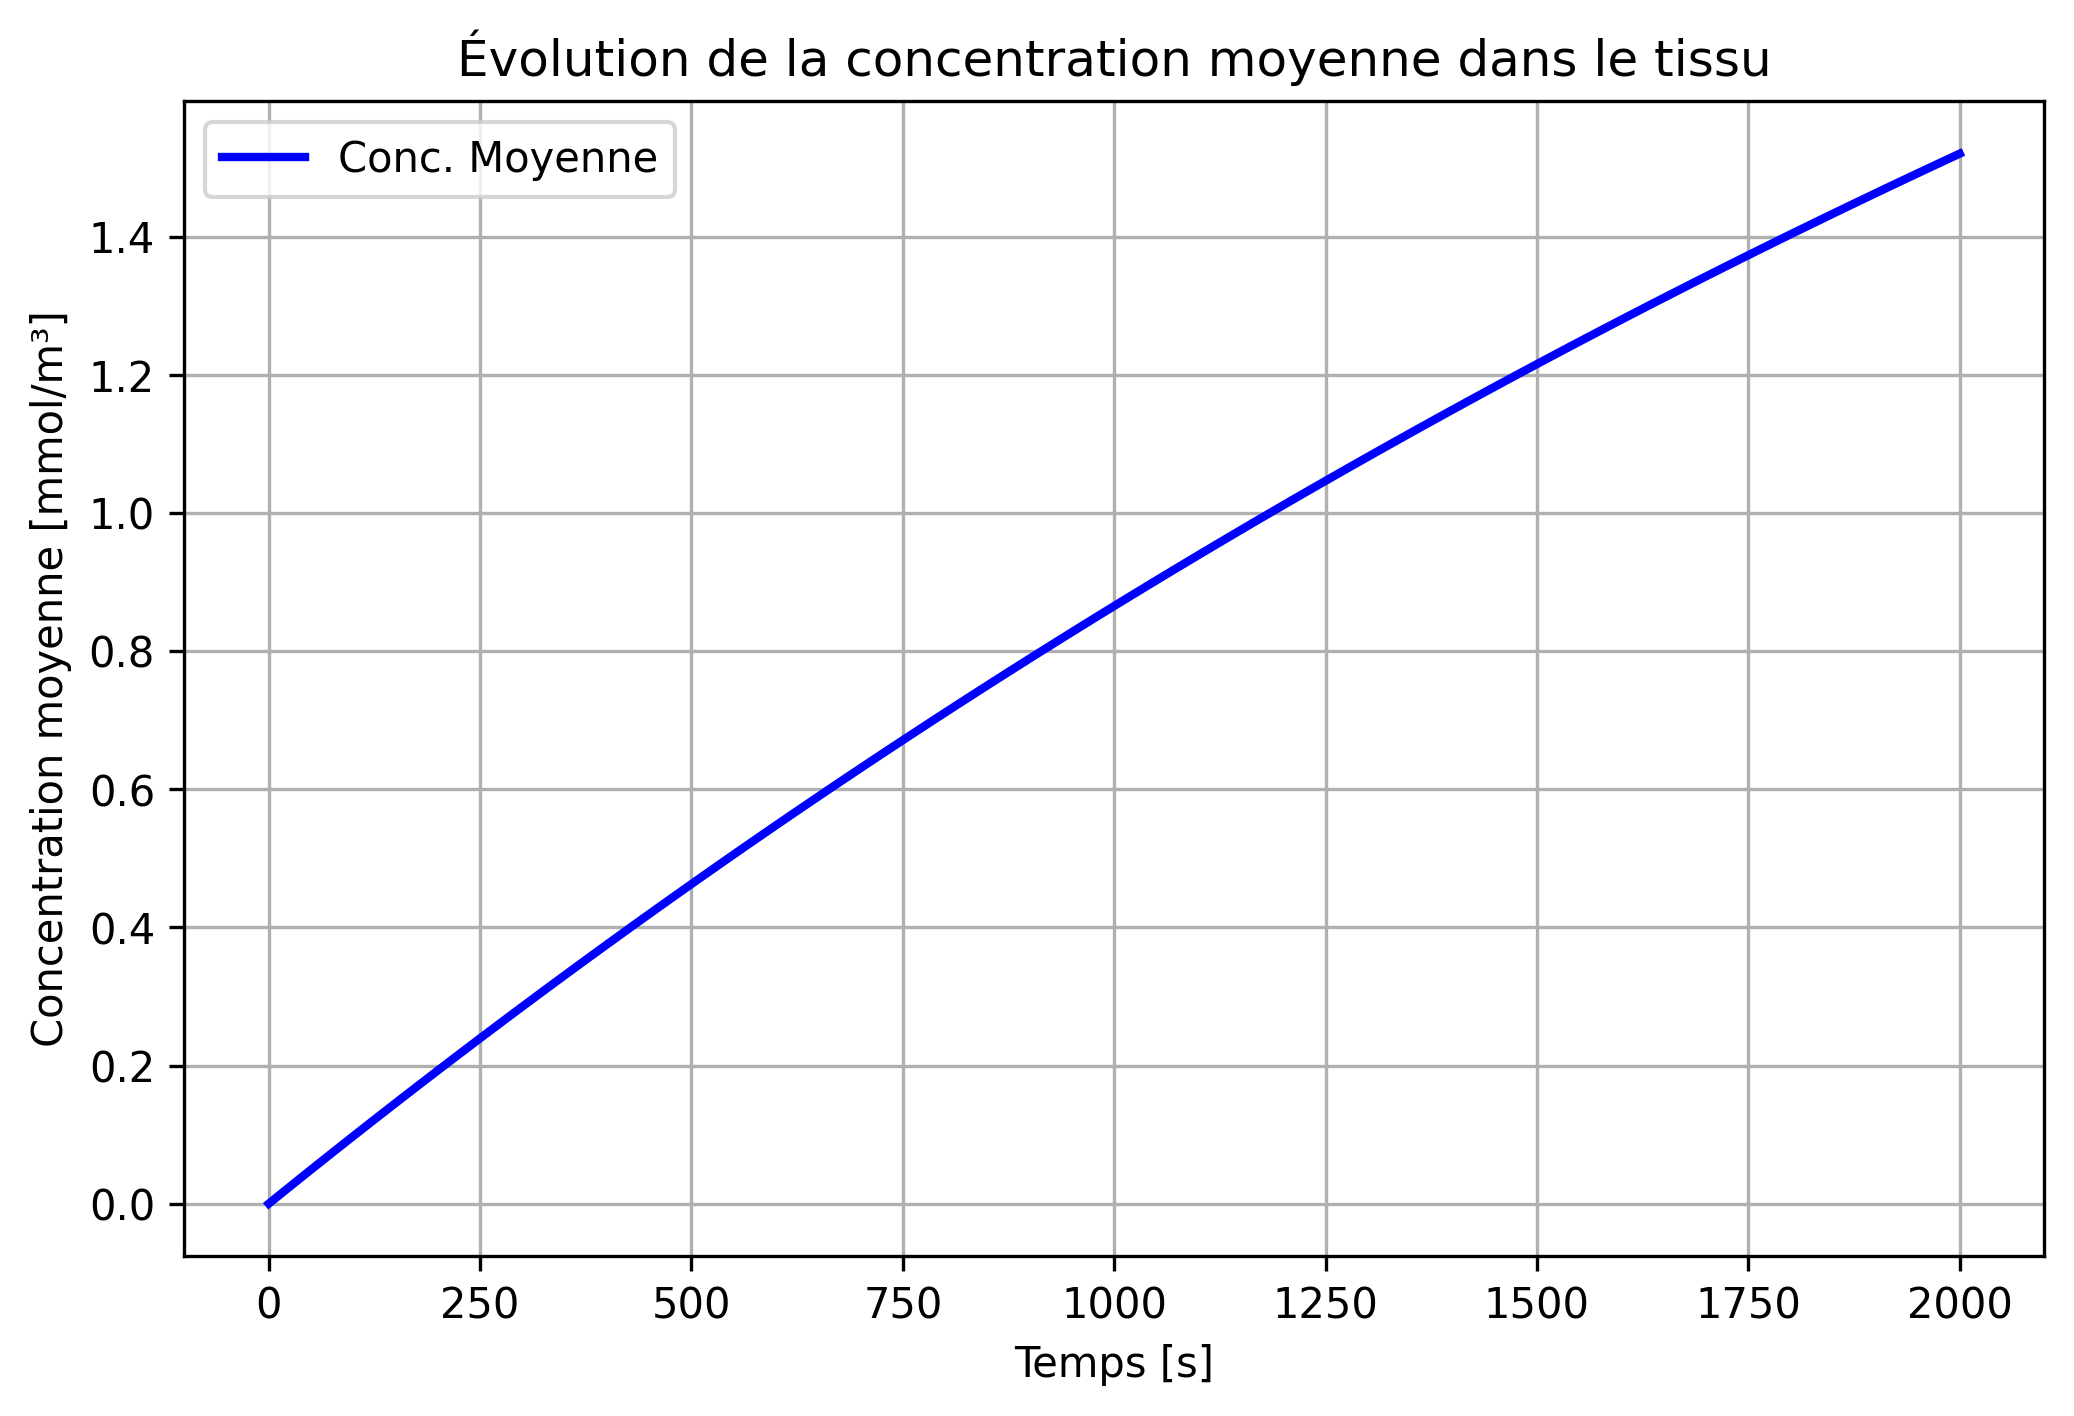
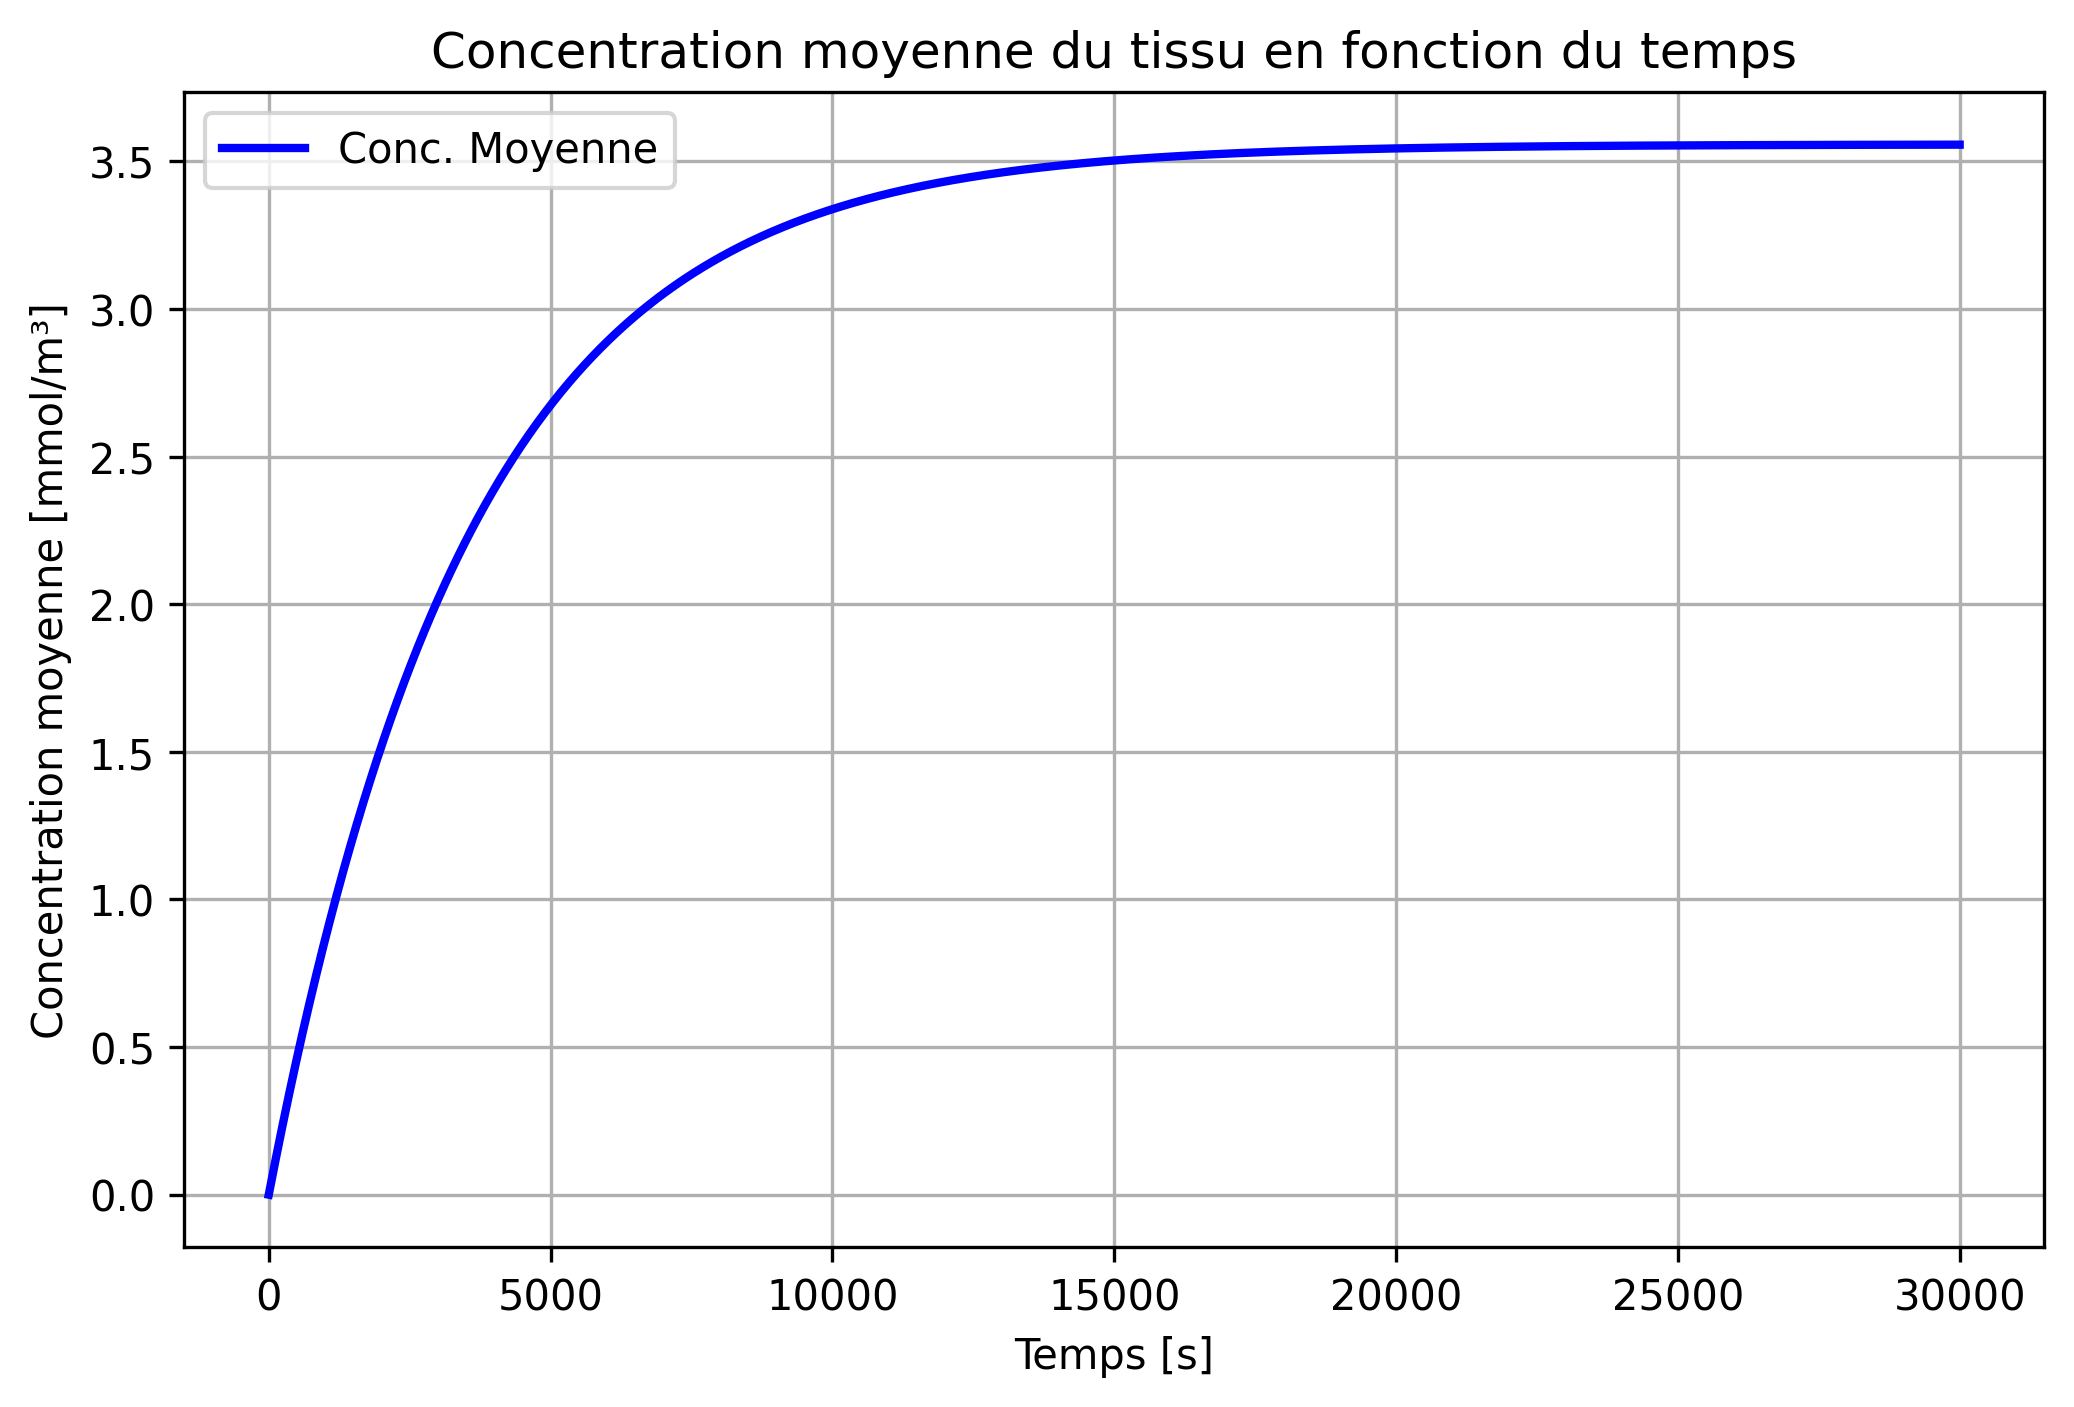
image concentration

diff --git a/main_multilayer.py b/main_multilayer.py
@@ -80,7 +80,7 @@ def main():
     parser.add_argument("--H", type=float, default=0.00010)
     parser.add_argument("--cl", type=float, default=0.000015)
     parser.add_argument("--dt", type=float, default=20.0)
-    parser.add_argument("--nsteps", type=int, default=100)
+    parser.add_argument("--nsteps", type=int, default=1500)
     parser.add_argument("--theta", type=float, default=1.0)
     args = parser.parse_args()
 
@@ -255,18 +255,41 @@ def main():
 
     # 4. trace les profils de concentration à différents moments (pour voir comment la doxorubicine pénètre dans le tissu au cours du temps):
     plt.figure()
+
     for t_val, U_snap in snapshots.items():
-        rho, profile = linear_profile(dof_coords, U_snap, args.L) 
-        plt.plot(rho, profile/ C_PLASMA, label=f't = {t_val:.0f} s')
-    plt.xlabel('Distance normalisée (0=vaisseau, 1=limite)')
+        rho, profile = linear_profile(dof_coords, U_snap, args.L)
+        plt.plot(rho, profile / C_PLASMA, label=f"t = {t_val:.0f} s")
+
+    # Limites normalisées entre les couches
+    layer_ratios = [0.13, 0.53, 0.34]
+    layer_bounds = np.cumsum(layer_ratios)
+
+    # On trace seulement les interfaces internes : 0.13 et 0.66
+    for x_layer in layer_bounds[:-1]:
+        plt.axvline(
+            x=x_layer,
+            color="black",
+            linestyle="--",
+            linewidth=1,
+            alpha=0.8,
+        )
+
+    # Optionnel : noms des couches sur le graphe
+    plt.text(0.065, 0.95, "Couche 1", transform=plt.gca().get_xaxis_transform(),
+            ha="center", va="top", fontsize=9)
+    plt.text(0.395, 0.95, "Couche 2", transform=plt.gca().get_xaxis_transform(),
+            ha="center", va="top", fontsize=9)
+    plt.text(0.83, 0.95, "Couche 3", transform=plt.gca().get_xaxis_transform(),
+            ha="center", va="top", fontsize=9)
+
+    plt.xlabel("Distance normalisée (0 = vaisseau, 1 = limite)")
     plt.ylabel(r"$c/c_{\mathrm{plasma}}$")
-    plt.title('Profil de pénétration par couches')
+    plt.title("Profil de pénétration par couches")
     plt.legend()
     plt.grid(True)
     plt.savefig("profils_multicouche.png", dpi=300, bbox_inches="tight")
     plt.show()
 
-    layer_ratios = [0.13, 0.53, 0.34]
     print_diffusion_metrics(layer_props, args.L, layer_ratios)
 
 